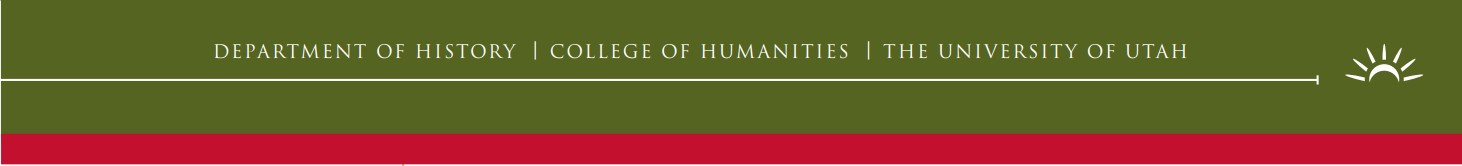
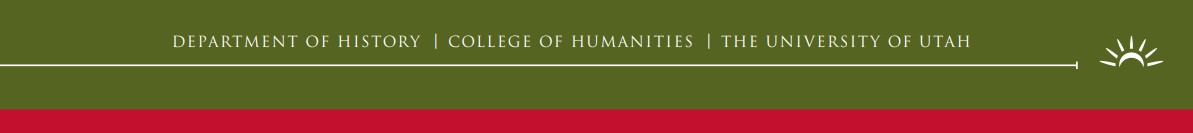
updated header image from .jpg to .gif. WIP on sizing, things got messed up

diff --git a/inner-pages/inner-undergraduate-students-styles.css b/inner-pages/inner-undergraduate-students-styles.css
@@ -20,7 +20,7 @@ section.main-content-area {
     flex-direction: column;
     justify-content: space-between;
 
-    nav.secondary {
+    .secondary {
         /*border: 1px solid black;*/
         min-height: 20px;
         padding-right: 20px;
@@ -58,7 +58,8 @@ section.main-content-area {
     section.undergraduate-header {
         display: flex;
         justify-content: flex-end;
-        text-decoration: underline 6px solid rgba(195,16,47,0.96);
+        text-decoration: underline 8px solid rgba(195,16,47,0.96);
+        text-underline-offset: 1px;
         min-height: 50px;
         font-size: 35px;
         padding: 20px 0 0 0;
@@ -73,7 +74,7 @@ section.main-content-area {
         display: flex;
         justify-content: space-between;
         width: 100%;
-        margin: 0 auto 50px;
+        margin: 0 auto 0;
 
         .left-side {
             background-color: rgba(242,243,244,0.96);
@@ -82,7 +83,7 @@ section.main-content-area {
             flex-direction: column;
             justify-content: space-between;
             align-items: center;
-            margin: -24px auto 0;
+            margin: -93.5px 0 -20px 0;
             min-height: 550px;
 
             nav {

diff --git a/inner-pages/inner-undergraduate-students-layout.html b/inner-pages/inner-undergraduate-students-layout.html
@@ -9,7 +9,7 @@
 
 <div id="parent">
     <section>
-        <img src="../files/historyHeader.gif" alt="University of Utah Department of History" width="780"/>
+        <img src="images/historyheader.gif" alt="University of Utah Department of History"/>
     </section>
 
     <section class="main-content-area">